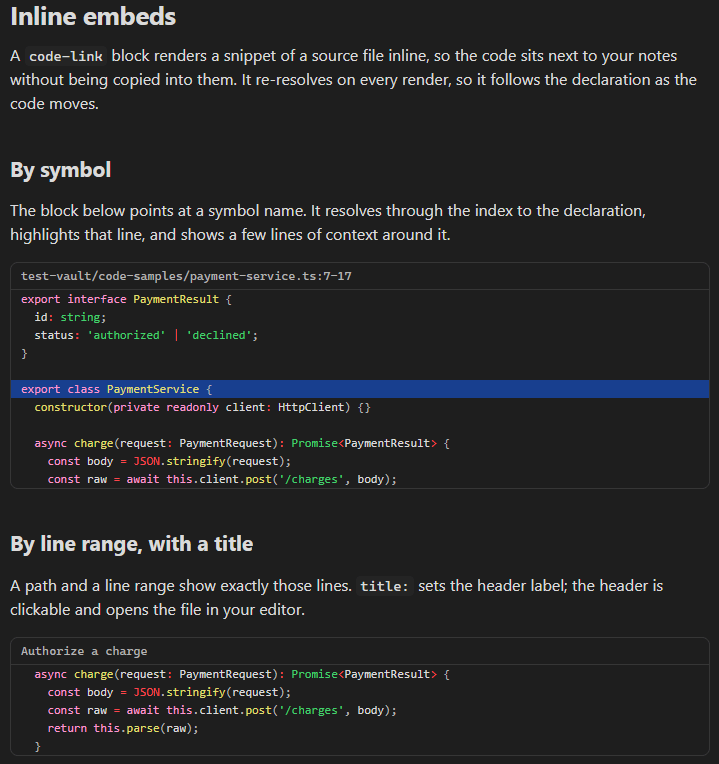
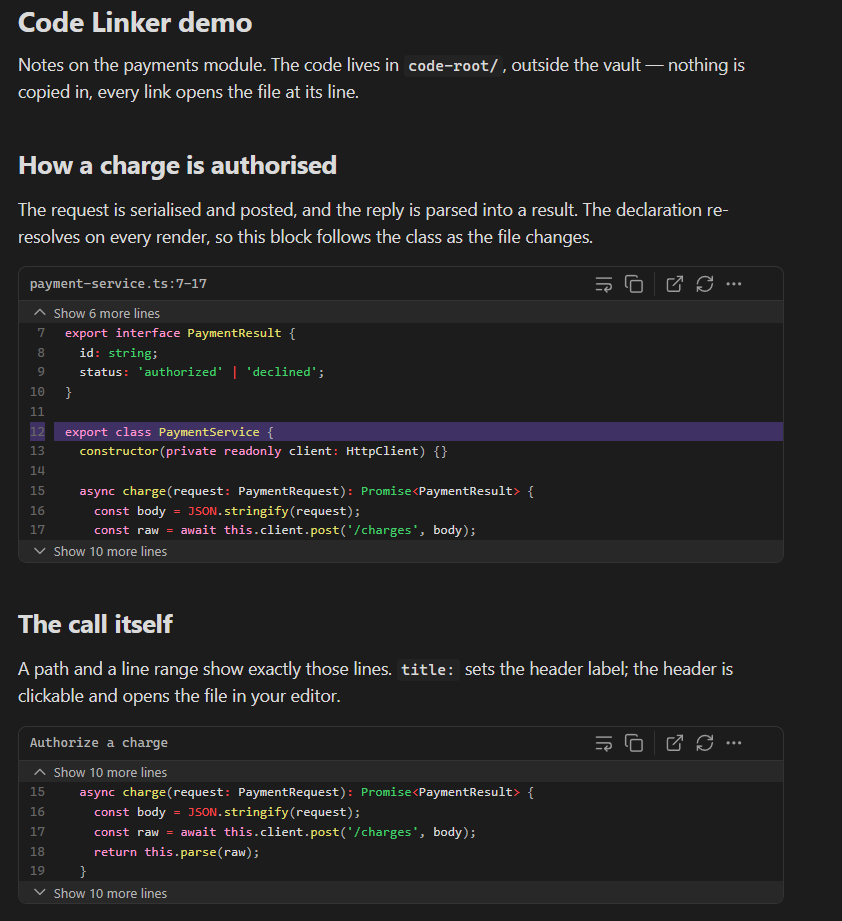
Reshoot the snippet screenshot and write the community listing

Changed region(s): [[0.0, 0.0, 1.0, 0.6322], [0.0, 0.6623, 0.9179, 0.9935]]

diff --git a/docs/store-listing.md b/docs/store-listing.md
@@ -1,0 +1,42 @@
+# Community listing
+
+What goes on the plugin's page in the community catalog. Kept here so the next release can
+diff it instead of guessing what is live. The short description must match `manifest.json`
+and the entry in `obsidianmd/obsidian-releases`.
+
+## Short
+
+Autocomplete references to source-code files and types, inserting a deep-link that opens the file at its line in your editor, or embedding the snippet inline with its own line numbers.
+
+## Long
+
+Code Linker turns the names you already write — a class, a function, a file — into links that open the file at the exact line in your editor.
+
+**Autocomplete by name.** Type the trigger and a fuzzy query: `hc` finds `HttpClient`. The index holds file names plus type declarations with their line numbers, so a suggestion drops you on the declaration rather than the top of the file. Suggestions stay out of code blocks, frontmatter and existing links.
+
+**Open where you work.** Presets for VS Code, JetBrains, plain `file://`, and GitHub and GitLab permalinks to the exact commit — plus URL templates of your own for anything else (Cursor, PyCharm, Sublime). What lands in the note is a plain markdown link carrying a portable `{root}` path, so the same vault works on another machine that keeps the repository somewhere else.
+
+**Read the code in the note.** A `code-link` block renders a snippet inline: numbered by its lines in the file, the declaration highlighted, and a strip above and below that opens out a few more lines when you want them. The block keeps saying what it said — opening it out is a way of reading, not an edit.
+
+**Links that survive a refactor.** Pin a link to a symbol, to a kind of declaration, or to the exact line, and it is checked against the index. When the code moves, the link is marked and repaired in place — one note or the whole vault, with a preview before anything is written.
+
+**Index what you want.** Nine languages out of the box, each with its own entity kinds, all switchable. `.gitignore` is respected, so build output never reaches the index.
+
+Desktop only: it reads files from disk through Node's filesystem API, which isn't available on mobile.
+
+## Screenshots
+
+Five slots, in this order. Files are the composited plates in `docs/images/store/`,
+regenerated by `npm run plates`.
+
+| # | File | Caption on the plate |
+| --- | --- | --- |
+| 1 | `store/suggest.png` | Autocomplete code references |
+| 2 | `store/hero.png` | Jump straight to the line |
+| 3 | `store/embed.png` | Embed code in your notes |
+| 4 | `store/hover.png` | Preview on hover |
+| 5 | `store/picker-2.png` | Find and open code |
+
+`store/context-menu-1.png` and `store/languages-1.png` are generated but left off the page:
+converting a selection is a variation on autocompleting one, and the language settings are
+configuration rather than a reason to install.
